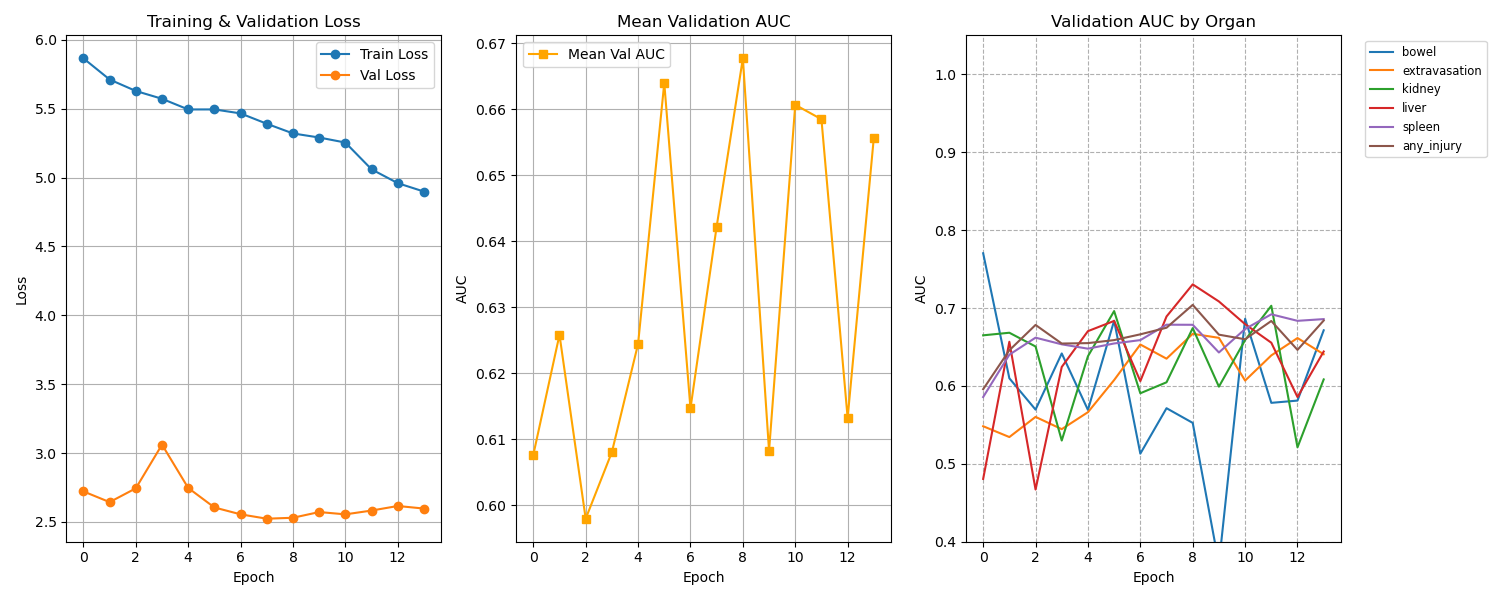
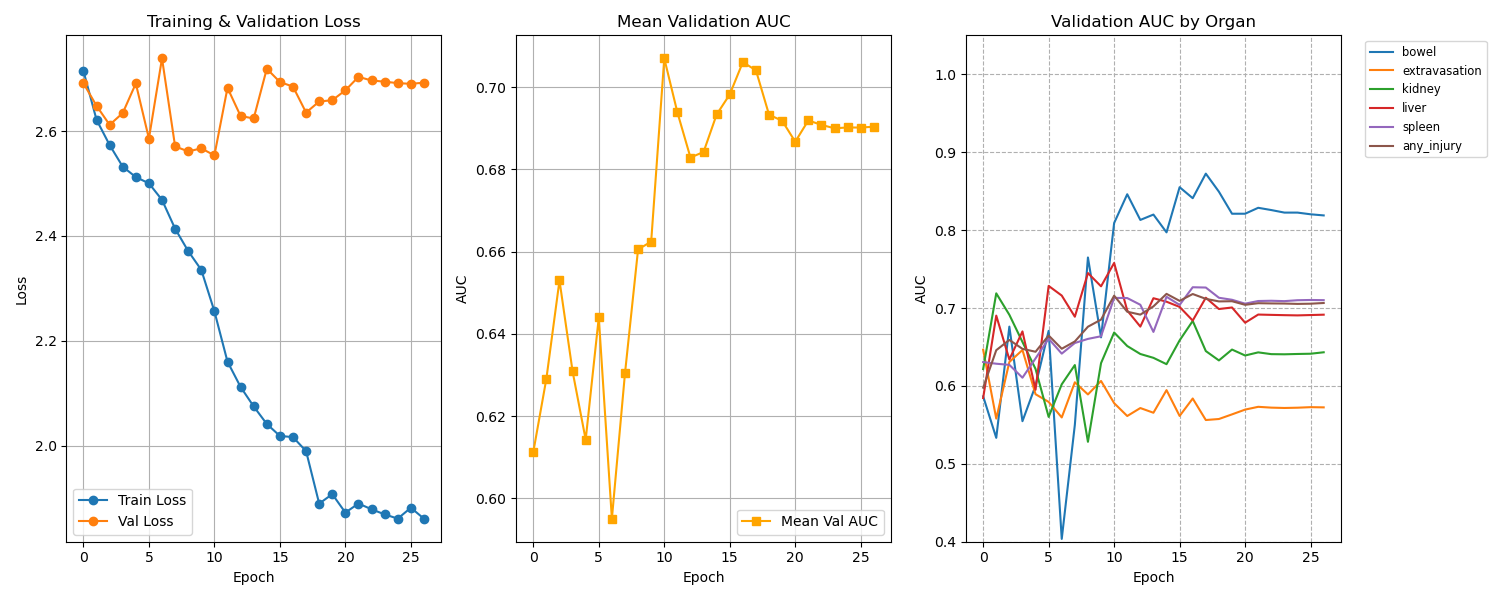
v4 최종 버전 업로드

diff --git a/README.md b/README.md
@@ -127,3 +127,4 @@
                 ==========================================================
             ```
         - ![alt text](ct_result_history_4.png)
+        - best 11 에포크
